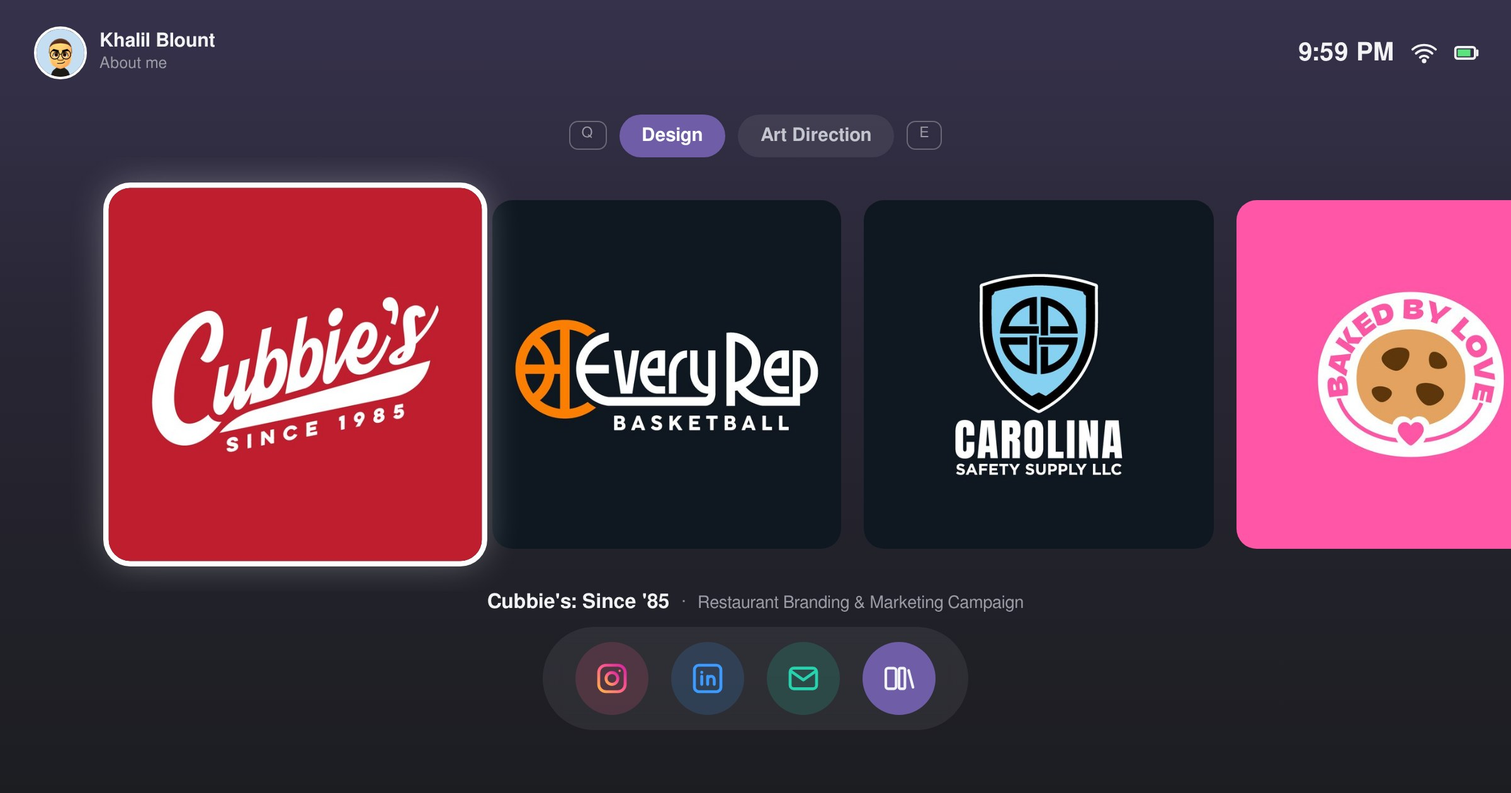
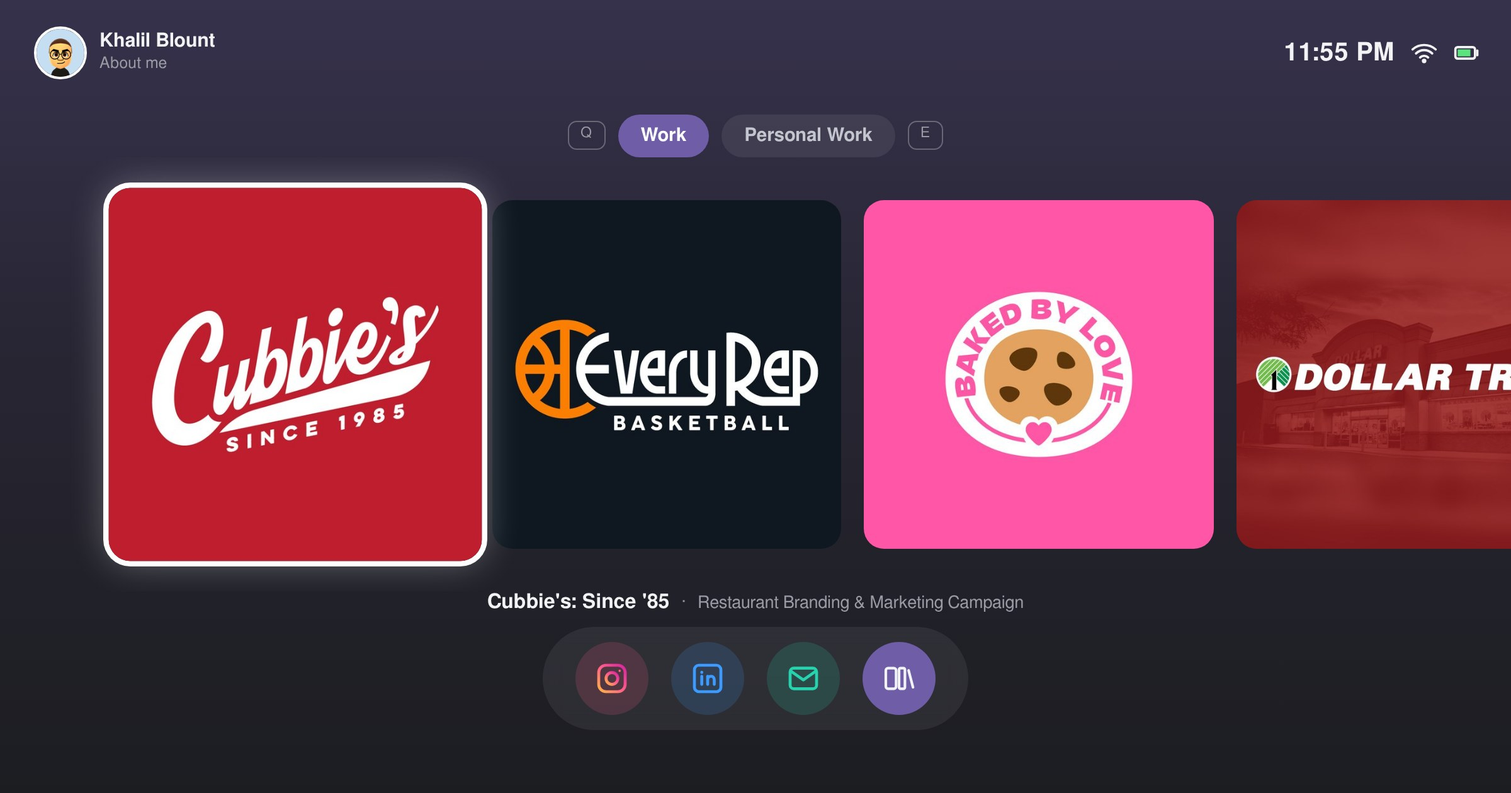
Add files via upload

Changed region(s): [[0.5625, 0.2476, 1.0, 0.7119], [0.375, 0.1548, 0.625, 0.1857], [0.8438, 0.0619, 0.875, 0.0929]]

diff --git a/index.html b/index.html
@@ -175,7 +175,7 @@ footer{padding:0 0 22px;display:flex;flex-direction:column;align-items:center;ga
 </header>
 
 <main>
-  <div class="tabs" role="tablist" aria-label="Portfolio sections"><span class="key">Q</span><button class="tabbtn on" role="tab" aria-selected="true" data-tab="brand">Design</button><button class="tabbtn" role="tab" aria-selected="false" data-tab="marketing">Art Direction</button><span class="key">E</span></div>
+  <div class="tabs" role="tablist" aria-label="Portfolio sections"><span class="key">Q</span><button class="tabbtn on" role="tab" aria-selected="true" data-tab="work">Work</button><button class="tabbtn" role="tab" aria-selected="false" data-tab="personal">Personal Work</button><span class="key">E</span></div>
   <div id="row" role="list" aria-label="Projects"></div>
   <p class="cap" id="cap"></p>
 </main>
@@ -245,15 +245,16 @@ footer{padding:0 0 22px;display:flex;flex-direction:column;align-items:center;ga
 <script>
 /* ===== EDIT YOUR CONTENT HERE (max 10 projects) ===== */
 const PROJECTS=[
- {title:"Cubbie's: Since '85",tab:"brand",desc:"",type:"Restaurant Branding & Marketing Campaign",role:"Art Director",deliverables:"Visual Identity, Digital Ads, Out-of-Home Ads",challenge:["Cubbie’s has long been an ECU and Greenville staple for Southern comfort food, but a recent wave of modern burger joints threatened its hometown dominance. Falling behind the curve due to an outdated 1980s visual identity and a passive marketing strategy, the restaurant needed a modern intervention. I stepped in to spearhead the rebrand.", "First, I overhauled their visual identity… cleaned up the typography and modernized their mascot into a timeless brand asset ready for merchandise, signage, and packaging. Next, I launched the “New Bear in Town” marketing campaign. By cleverly hijacking famous food catchphrases from pop culture’s most iconic bears, the campaign confidently reminds locals and students alike that when it comes to comfort food, Cubbie the Bear still owns the block."],tags:[],url:"#",img:"images/cubbies/cover.jpg",hover:"images/cubbies/hover.jpg",hoverPos:"50% 50%",slides:["images/cubbies/01-hero.jpg","images/cubbies/02-mascot.jpg","images/cubbies/03-logo-suite.jpg","images/cubbies/04-primary-logo.jpg","images/cubbies/05-apparel-mural.jpg","images/cubbies/06-billboard.jpg","images/cubbies/07-posters.jpg","images/cubbies/08-social-ads.jpg"],c1:"#bf1e2e",c2:"#7a0010"},
- {title:"Dollar Tree: Holiday Magic",tab:"marketing",desc:"",type:"Creative Advertising Campaign",team:"Khalil Blount & Ella Bartosik",deliverables:"Social Media, Out-of-Home, Video Spots",heading:"Overview",challenge:["Dollar Tree is known for being affordable, but during the holidays few people think of it as a place to shop for gifts, even though it’s full of them. Meanwhile, nearly half of Gen Z (47%) and millennial (43%) shoppers plan to buy gifts for themselves this season (<a href=\"https://www2.deloitte.com/us/en/insights/industry/retail-distribution/holiday-retail-sales-consumer-survey.html\" target=\"_blank\" rel=\"noopener\">Deloitte</a>).", "The idea: Blame it on the holiday Magic! Instead of lecturing about budgets, the campaign leans into sarcasm and relatability: if you’re already treating yourself, why not do it where you can grab everyone’s gifts too? Treating everyone, yourself included, for just a few dollars is the real holiday magic."],tags:[],url:"#",img:"images/dollartree/cover.jpg",hover:"images/dollartree/hover.jpg",hoverPos:"50% 50%",video:{src:"assets/dollar-tree-spot.mp4",poster:"images/dollartree/spot-poster.jpg",after:5},slides:["images/dollartree/01-cover.jpg", "images/dollartree/02-hero.jpg", "images/dollartree/03-subway.jpg", "images/dollartree/04-poster-wall.jpg", "images/dollartree/05-bus-shelter.jpg", "images/dollartree/06-social.jpg", "images/dollartree/07-apple-pay.jpg", "images/dollartree/08-elves.jpg"],c1:"#a51c20",c2:"#6d0f13"},
- {title:"AMC Theatres: We Miss You…",tab:"marketing",desc:"",type:"Brand Activation Campaign",team:"Khalil Blount & Ella Bartosik",deliverables:"Brand Activation, Out-of-Home, Social Media, Video Spot",heading:"Overview",challenge:["People have forgotten what the real cinema experience is. It’s not just the movie, it’s the shared laughter, gasps, and the way theaters amplify every emotion. Movies aren’t just watched. They’re felt.", "The activation: three products available ONLY IN THEATERS, the Spill-Proof Bucket Lid, Tear Catcher Goggles, and Laugh Leveler. Each is designed to enhance the movie experience and pair with the films that bring out your emotions, whether it’s a tearjerker, a comedy, or a thriller, so everyone can feel in full without holding back."],tags:[],url:"#",img:"images/amc/cover.jpg",hover:"images/amc/hover.jpg",hoverPos:"50% 50%",video:{src:"assets/amc-we-miss-you.mp4",poster:"images/amc/spot-poster.jpg",after:3},slides:["images/amc/01-we-miss-you.jpg", "images/amc/06-marquee-1.jpg", "images/amc/07-marquee-2.jpg", "images/amc/08-marquee-3.jpg", "images/amc/02-feel-in-full.jpg", "images/amc/03-bucket-lid.jpg", "images/amc/04-tear-catcher.jpg", "images/amc/05-laugh-leveler.jpg", "images/amc/09-social.jpg", "images/amc/10-team.jpg"],c1:"#c8102e",c2:"#5a0a14"},
- {title:"Every Rep Basketball",tab:"brand",desc:"",type:"Athletic Branding & Apparel System",role:"Brand Designer, Strategist",deliverables:"Logo Suite, Social Media, Merchandise",challenge:["Every Rep launched with an ambitious dual mandate: establish an elite athletic training service and build a premium merchandise line to act as \"on-body promotion\". To stand out in a market oversaturated with generic basketball clichés, the brand needed a visual identity that felt elite, established, and fully scalable. I stepped in to develop the “Geometry of the Game,” moving away from standard sports tropes to lean directly into the structural language of basketball.", "By crafting custom, fluid typography that mimics the channels of a basketball and building a responsive logo family, I created an adaptable asset system engineered for everything from large-scale court graphics to embroidered jersey patches. The result is a distinct, professional visual identity that seamlessly unifies the brand experience for athletes across all tiers, from youth development to the pros."],tags:[],url:"#",img:"images/everyrep/cover.jpg",hover:"images/everyrep/05-jersey.jpg",hoverPos:"50% 50%",slides:["images/everyrep/01-cover.jpg", "images/everyrep/02-badge-web.jpg", "images/everyrep/03-colorway.jpg", "images/everyrep/04-monogram.jpg", "images/everyrep/05-jersey.jpg", "images/everyrep/06-court.jpg"],c1:"#f77f00",c2:"#e8571f"},
- {title:"Carolina Safety Supply",tab:"brand",desc:"",type:"Corporate Identity & Print Collateral",role:"Brand Design, Production Artist",deliverables:"Visual Identity, Typography, Corporate Collateral & Uniforms",challenge:["Founded by a retired Chief of Police, Carolina Safety Supply needed to aggressively enter the law enforcement and emergency gear market as a trusted authority. The mission was to translate the founder's deeply personal industry roots into an authoritative corporate identity that projected institutional strength and protection. I anchored the entire rebrand around “A Symbol of Protection,” refining a Celtic knot inspired by the founder's personal tattoo into a sharp, geometric vector mark encased in a defensive shield.", "Steering away from overly aggressive industry colors, I established a clean \"Safety Blue\" and Black corporate palette engineered specifically to capture lucrative government and B2B contracts. Deployed consistently across corporate collateral, presentation folders, and physical team apparel, the robust new identity firmly positions the company as a premier partner for high-level safety equipment."],tags:[],url:"#",img:"images/carolina/cover.jpg",hover:"images/carolina/hover.jpg",hoverPos:"50% 50%",slides:["images/carolina/01-primary.jpg", "images/carolina/02-marks.jpg", "images/carolina/03-sketch.jpg", "images/carolina/04-evolution.jpg", "images/carolina/05-team.jpg", "images/carolina/06-collateral.jpg"],c1:"#87d0f2",c2:"#04507a"},
- {title:"Baked by Love",tab:"brand",desc:"",type:"Visual Identity & Packaging Design",role:"Brand/Packaging Designer",deliverables:"Visual Identity, Social Media, Packaging & Stickers",challenge:["Baked By Love needed to transition from a cozy, home-based kitchen operation into a highly scalable retail and e-commerce brand. The core challenge lay in projecting professional polish for competitive shelf presence without losing the inviting warmth of a \"homemade\" aesthetic.", "To solve this, I designed a “Retail-Ready System” focused on appetite-triggering visuals, blending a bold sans-serif with a warm, custom script for the word \"Love\". I anchored the visual identity with a circular badge format engineered to double as a cost-effective packaging sticker seal, paired with a vibrant \"Perfect Pink\" and \"Cookie Dough\" brown palette and a playful pattern library of bitten cookies and hearts. Rolled out seamlessly across custom boxes, sticker labels, and social templates, this polished identity beautifully bridges digital engagement with physical unboxing to position the bakery for massive storefront growth."],tags:[],url:"#",img:"images/bakedbylove/cover.jpg",hover:"images/bakedbylove/hover.jpg",hoverPos:"50% 50%",slides:["images/bakedbylove/01-cover.jpg", "images/bakedbylove/02-pattern.jpg", "images/bakedbylove/03-evolution.jpg", "images/bakedbylove/04-wordmark.jpg", "images/bakedbylove/05-colors.jpg", "images/bakedbylove/06-web.jpg", "images/bakedbylove/07-social-boxes.jpg"],c1:"#ff57a2",c2:"#7a2cbf"},
- {title:"Family Legacy Financial Solutions",tab:"brand",desc:"",type:"Social Media & Print Marketing Campaign",deliverables:"Social Media Ads, Print Collateral",heading:"Overview",challenge:["A lead-generation campaign for Family Legacy Financial Solutions, a wealth management firm, aimed at tech professionals with stock options. Four social ads, from illustrated to photographic, speak directly to the pain point of overpaying in taxes and drive to a free guide.", "The guide and a services brochure carry the same green, shield-led identity into print, so every touchpoint feels like one brand."],layout:"brick",ratios:[1.0, 0.9042, 1.0, 1.0, 0.6667, 0.6667],tags:[],url:"#",img:"images/familylegacy/cover.jpg",hover:"images/familylegacy/hover.jpg",hoverPos:"50% 50%",slides:["images/familylegacy/01-stock-options-taxes.jpg", "images/familylegacy/02-unlock-secrets.jpg", "images/familylegacy/03-master-stock-options.jpg", "images/familylegacy/04-maximize-minimize.jpg", "images/familylegacy/05-guide.jpg", "images/familylegacy/06-brochure.jpg"],c1:"#2b3a2f",c2:"#14201a"},
- {title:"Sport/Gameday",tab:"brand",desc:"",type:"Team Graphics • Player Posters",heading:"Overview",challenge:["Game day lives on screens and in arenas, and these graphics are built for both. This selection of team graphics and player posters was created for digital channels, sports media, and live gameday productions: signing announcements, matchup promos, senior banners, and athlete spotlights, all tuned to each team’s colors and energy. Every piece is designed to stop the scroll, put the athlete front and center, and make game night feel like an event."],layout:"brick",ratios:[0.6682, 1.2945, 1.6664, 1.489, 1.4819, 1.4819, 1.4876, 1.4876, 1.2308, 1.2495, 1.2483, 1.2315, 1.2315, 1.2315, 1.2315],tags:[],url:"#",img:"images/sport/cover.jpg",hover:"images/sport/hover.jpg",hoverPos:"50% 50%",slides:["images/sport/01-chargers-jv.jpg", "images/sport/02-caleb-wilson.jpg", "images/sport/03-softball-banner.jpg", "images/sport/04-myles-joy.jpg", "images/sport/05-cash-easley.jpg", "images/sport/06-braxton-pegram.jpg", "images/sport/07-bucks-senior.jpg", "images/sport/08-laura-laverde.jpg", "images/sport/09-fairplay-select.jpg", "images/sport/10-unc-committed.jpg", "images/sport/11-kayla-committed.jpg", "images/sport/12-firebirds-college-day.jpg", "images/sport/13-firebirds-health.jpg", "images/sport/14-firebirds-youth.jpg", "images/sport/15-firebirds-tournament.jpg"],c1:"#6f5bff",c2:"#2a1f8f"},
- {title:"Brand Book",tab:"brand",desc:"",type:"Bespoke Logo • Brand Identity",heading:"Overview",challenge:["A growing library of custom logos and brand marks, each built from scratch to give a business something worth remembering. Across home services, food and hospitality, sports and education, media, retail, and events, every identity starts with the client’s personality and audience, whether that calls for a hand-lettered script, a bold mascot, or a clean, confident wordmark. Each mark is built to hold up everywhere a brand lives, from signage and uniforms to packaging and screens. The goal never changes: clear, ownable branding that works as hard as the business behind it."],layout:"brick",ratios:[0.7333, 0.6411, 0.7367, 0.4878, 1.0, 0.3978, 0.9733, 1.0, 0.4189, 0.6922, 0.4633, 0.3956, 0.9933, 0.91, 0.4889, 1.4033, 1.28, 0.5722, 1.1611, 0.6933],tags:[],url:"#",img:"images/brandbook/cover.jpg",hover:"images/brandbook/hover.jpg",hoverPos:"50% 50%",slides:["images/brandbook/logo-01.jpg", "images/brandbook/logo-02.jpg", "images/brandbook/logo-03.jpg", "images/brandbook/logo-04.jpg", "images/brandbook/logo-05.jpg", "images/brandbook/logo-06.jpg", "images/brandbook/logo-07.jpg", "images/brandbook/logo-08.jpg", "images/brandbook/logo-09.jpg", "images/brandbook/logo-10.jpg", "images/brandbook/logo-11.jpg", "images/brandbook/logo-12.jpg", "images/brandbook/logo-13.jpg", "images/brandbook/logo-14.jpg", "images/brandbook/logo-15.jpg", "images/brandbook/logo-16.jpg", "images/brandbook/logo-17.jpg", "images/brandbook/logo-18.jpg", "images/brandbook/logo-19.jpg", "images/brandbook/logo-20.jpg"],c1:"#0b7a75",c2:"#0a3d4a"}
+ {title:"Cubbie's: Since '85",tab:"work",desc:"",type:"Restaurant Branding & Marketing Campaign",role:"Art Director",deliverables:"Visual Identity, Digital Ads, Out-of-Home Ads",challenge:["Cubbie’s has long been an ECU and Greenville staple for Southern comfort food, but a recent wave of modern burger joints threatened its hometown dominance. Falling behind the curve due to an outdated 1980s visual identity and a passive marketing strategy, the restaurant needed a modern intervention. I stepped in to spearhead the rebrand.", "First, I overhauled their visual identity… cleaned up the typography and modernized their mascot into a timeless brand asset ready for merchandise, signage, and packaging. Next, I launched the “New Bear in Town” marketing campaign. By cleverly hijacking famous food catchphrases from pop culture’s most iconic bears, the campaign confidently reminds locals and students alike that when it comes to comfort food, Cubbie the Bear still owns the block."],tags:[],url:"#",img:"images/cubbies/cover.jpg",hover:"images/cubbies/hover.jpg",hoverPos:"50% 50%",slides:["images/cubbies/01-hero.jpg","images/cubbies/02-mascot.jpg","images/cubbies/03-logo-suite.jpg","images/cubbies/04-primary-logo.jpg","images/cubbies/05-apparel-mural.jpg","images/cubbies/06-billboard.jpg","images/cubbies/07-posters.jpg","images/cubbies/08-social-ads.jpg"],c1:"#bf1e2e",c2:"#7a0010"},
+ {title:"Every Rep Basketball",tab:"work",desc:"",type:"Athletic Branding & Apparel System",role:"Brand Designer, Strategist",deliverables:"Logo Suite, Social Media, Merchandise",challenge:["Every Rep launched with an ambitious dual mandate: establish an elite athletic training service and build a premium merchandise line to act as \"on-body promotion\". To stand out in a market oversaturated with generic basketball clichés, the brand needed a visual identity that felt elite, established, and fully scalable. I stepped in to develop the “Geometry of the Game,” moving away from standard sports tropes to lean directly into the structural language of basketball.", "By crafting custom, fluid typography that mimics the channels of a basketball and building a responsive logo family, I created an adaptable asset system engineered for everything from large-scale court graphics to embroidered jersey patches. The result is a distinct, professional visual identity that seamlessly unifies the brand experience for athletes across all tiers, from youth development to the pros."],tags:[],url:"#",img:"images/everyrep/cover.jpg",hover:"images/everyrep/05-jersey.jpg",hoverPos:"50% 50%",slides:["images/everyrep/01-cover.jpg", "images/everyrep/02-badge-web.jpg", "images/everyrep/03-colorway.jpg", "images/everyrep/04-monogram.jpg", "images/everyrep/05-jersey.jpg", "images/everyrep/06-court.jpg"],c1:"#f77f00",c2:"#e8571f"},
+ {title:"Baked by Love",tab:"work",desc:"",type:"Visual Identity & Packaging Design",role:"Brand/Packaging Designer",deliverables:"Visual Identity, Social Media, Packaging & Stickers",challenge:["Baked By Love needed to transition from a cozy, home-based kitchen operation into a highly scalable retail and e-commerce brand. The core challenge lay in projecting professional polish for competitive shelf presence without losing the inviting warmth of a \"homemade\" aesthetic.", "To solve this, I designed a “Retail-Ready System” focused on appetite-triggering visuals, blending a bold sans-serif with a warm, custom script for the word \"Love\". I anchored the visual identity with a circular badge format engineered to double as a cost-effective packaging sticker seal, paired with a vibrant \"Perfect Pink\" and \"Cookie Dough\" brown palette and a playful pattern library of bitten cookies and hearts. Rolled out seamlessly across custom boxes, sticker labels, and social templates, this polished identity beautifully bridges digital engagement with physical unboxing to position the bakery for massive storefront growth."],tags:[],url:"#",img:"images/bakedbylove/cover.jpg",hover:"images/bakedbylove/hover.jpg",hoverPos:"50% 50%",slides:["images/bakedbylove/01-cover.jpg", "images/bakedbylove/02-pattern.jpg", "images/bakedbylove/03-evolution.jpg", "images/bakedbylove/04-wordmark.jpg", "images/bakedbylove/05-colors.jpg", "images/bakedbylove/06-web.jpg", "images/bakedbylove/07-social-boxes.jpg"],c1:"#ff57a2",c2:"#7a2cbf"},
+ {title:"Dollar Tree: Holiday Magic",tab:"work",desc:"",type:"Creative Advertising Campaign",team:"Khalil Blount & Ella Bartosik",deliverables:"Social Media, Out-of-Home, Video Spots",heading:"Overview",challenge:["Dollar Tree is known for being affordable, but during the holidays few people think of it as a place to shop for gifts, even though it’s full of them. Meanwhile, nearly half of Gen Z (47%) and millennial (43%) shoppers plan to buy gifts for themselves this season (<a href=\"https://www2.deloitte.com/us/en/insights/industry/retail-distribution/holiday-retail-sales-consumer-survey.html\" target=\"_blank\" rel=\"noopener\">Deloitte</a>).", "The idea: Blame it on the holiday Magic! Instead of lecturing about budgets, the campaign leans into sarcasm and relatability: if you’re already treating yourself, why not do it where you can grab everyone’s gifts too? Treating everyone, yourself included, for just a few dollars is the real holiday magic."],tags:[],url:"#",img:"images/dollartree/cover.jpg",hover:"images/dollartree/hover.jpg",hoverPos:"50% 50%",video:{src:"assets/dollar-tree-spot.mp4",poster:"images/dollartree/spot-poster.jpg",after:5},slides:["images/dollartree/01-cover.jpg", "images/dollartree/02-hero.jpg", "images/dollartree/03-subway.jpg", "images/dollartree/04-poster-wall.jpg", "images/dollartree/05-bus-shelter.jpg", "images/dollartree/06-social.jpg", "images/dollartree/07-apple-pay.jpg", "images/dollartree/08-elves.jpg"],c1:"#a51c20",c2:"#6d0f13"},
+ {title:"Carolina Safety Supply",tab:"work",desc:"",type:"Corporate Identity & Print Collateral",role:"Brand Design, Production Artist",deliverables:"Visual Identity, Typography, Corporate Collateral & Uniforms",challenge:["Founded by a retired Chief of Police, Carolina Safety Supply needed to aggressively enter the law enforcement and emergency gear market as a trusted authority. The mission was to translate the founder's deeply personal industry roots into an authoritative corporate identity that projected institutional strength and protection. I anchored the entire rebrand around “A Symbol of Protection,” refining a Celtic knot inspired by the founder's personal tattoo into a sharp, geometric vector mark encased in a defensive shield.", "Steering away from overly aggressive industry colors, I established a clean \"Safety Blue\" and Black corporate palette engineered specifically to capture lucrative government and B2B contracts. Deployed consistently across corporate collateral, presentation folders, and physical team apparel, the robust new identity firmly positions the company as a premier partner for high-level safety equipment."],tags:[],url:"#",img:"images/carolina/cover.jpg",hover:"images/carolina/hover.jpg",hoverPos:"50% 50%",slides:["images/carolina/01-primary.jpg", "images/carolina/02-marks.jpg", "images/carolina/03-sketch.jpg", "images/carolina/04-evolution.jpg", "images/carolina/05-team.jpg", "images/carolina/06-collateral.jpg"],c1:"#87d0f2",c2:"#04507a"},
+ {title:"Family Legacy Financial Solutions",tab:"work",desc:"",type:"Social Media & Print Marketing Campaign",deliverables:"Social Media Ads, Print Collateral",heading:"Overview",challenge:["A lead-generation campaign for Family Legacy Financial Solutions, a wealth management firm, aimed at tech professionals with stock options. Four social ads, from illustrated to photographic, speak directly to the pain point of overpaying in taxes and drive to a free guide.", "The guide and a services brochure carry the same green, shield-led identity into print, so every touchpoint feels like one brand."],layout:"brick",ratios:[1.0, 0.9042, 1.0, 1.0, 0.6667, 0.6667],tags:[],url:"#",img:"images/familylegacy/cover.jpg",hover:"images/familylegacy/hover.jpg",hoverPos:"50% 50%",slides:["images/familylegacy/01-stock-options-taxes.jpg", "images/familylegacy/02-unlock-secrets.jpg", "images/familylegacy/03-master-stock-options.jpg", "images/familylegacy/04-maximize-minimize.jpg", "images/familylegacy/05-guide.jpg", "images/familylegacy/06-brochure.jpg"],c1:"#2b3a2f",c2:"#14201a"},
+ {title:"AMC Theatres: We Miss You…",tab:"work",desc:"",type:"Brand Activation Campaign",team:"Khalil Blount & Ella Bartosik",deliverables:"Brand Activation, Out-of-Home, Social Media, Video Spot",heading:"Overview",challenge:["People have forgotten what the real cinema experience is. It’s not just the movie, it’s the shared laughter, gasps, and the way theaters amplify every emotion. Movies aren’t just watched. They’re felt.", "The activation: three products available ONLY IN THEATERS, the Spill-Proof Bucket Lid, Tear Catcher Goggles, and Laugh Leveler. Each is designed to enhance the movie experience and pair with the films that bring out your emotions, whether it’s a tearjerker, a comedy, or a thriller, so everyone can feel in full without holding back."],tags:[],url:"#",img:"images/amc/cover.jpg",hover:"images/amc/hover.jpg",hoverPos:"50% 50%",video:{src:"assets/amc-we-miss-you.mp4",poster:"images/amc/spot-poster.jpg",after:3},slides:["images/amc/01-we-miss-you.jpg", "images/amc/06-marquee-1.jpg", "images/amc/07-marquee-2.jpg", "images/amc/08-marquee-3.jpg", "images/amc/02-feel-in-full.jpg", "images/amc/03-bucket-lid.jpg", "images/amc/04-tear-catcher.jpg", "images/amc/05-laugh-leveler.jpg", "images/amc/09-social.jpg", "images/amc/10-team.jpg"],c1:"#c8102e",c2:"#5a0a14"},
+ {title:"Digital Illustration",tab:"personal",desc:"",type:"Character Art • Poster Illustration",role:"Illustrator",deliverables:"Poster Art, Apparel Graphics, Character Illustration, Sketchbook Studies",heading:"Overview",challenge:["A selection of original illustration work spanning comic-style character art, apparel graphics, event posters, portraits and sketchbook studies. Hand-drawn linework and digital color come together in bold, high-energy pieces that put character and personality first.", "The range runs from a Greenville Comic Con poster and streetwear-inspired graphics to a stylized portrait and a dog-friendly fundraiser flyer, plus inked and pencil studies. It’s the drawing foundation behind everything I design: strong shapes, clear storytelling, and a style that adapts to the brand or the moment."],layout:"brick",ratios:[1.415, 1.0, 1.0, 1.3331, 1.0, 1.2012, 1.34, 1.0725, 1.0631],tags:[],url:"#",img:"images/illustration/cover.jpg",hover:"images/illustration/hover.jpg",hoverPos:"50% 50%",slides:["images/illustration/01-comic-con.jpg", "images/illustration/02-paws-and-pints.jpg", "images/illustration/03-dirty-fashion.jpg", "images/illustration/04-ufo.jpg", "images/illustration/05-tar-heel-tee.jpg", "images/illustration/06-portrait.jpg", "images/illustration/07-the-thing.jpg", "images/illustration/08-sketch-1.jpg", "images/illustration/09-sketch-2.jpg"],c1:"#c8102e",c2:"#1f3a6b"},
+ {title:"Sport/Gameday",tab:"personal",desc:"",type:"Team Graphics • Player Posters",heading:"Overview",challenge:["Game day lives on screens and in arenas, and these graphics are built for both. This selection of team graphics and player posters was created for digital channels, sports media, and live gameday productions: signing announcements, matchup promos, senior banners, and athlete spotlights, all tuned to each team’s colors and energy. Every piece is designed to stop the scroll, put the athlete front and center, and make game night feel like an event."],layout:"brick",ratios:[0.6682, 1.2945, 1.6664, 1.489, 1.4819, 1.4819, 1.4876, 1.4876, 1.2308, 1.2495, 1.2483, 1.2315, 1.2315, 1.2315, 1.2315],tags:[],url:"#",img:"images/sport/cover.jpg",hover:"images/sport/hover.jpg",hoverPos:"50% 50%",slides:["images/sport/01-chargers-jv.jpg", "images/sport/02-caleb-wilson.jpg", "images/sport/03-softball-banner.jpg", "images/sport/04-myles-joy.jpg", "images/sport/05-cash-easley.jpg", "images/sport/06-braxton-pegram.jpg", "images/sport/07-bucks-senior.jpg", "images/sport/08-laura-laverde.jpg", "images/sport/09-fairplay-select.jpg", "images/sport/10-unc-committed.jpg", "images/sport/11-kayla-committed.jpg", "images/sport/12-firebirds-college-day.jpg", "images/sport/13-firebirds-health.jpg", "images/sport/14-firebirds-youth.jpg", "images/sport/15-firebirds-tournament.jpg"],c1:"#6f5bff",c2:"#2a1f8f"},
+ {title:"Brand Book",tab:"personal",desc:"",type:"Bespoke Logo • Brand Identity",heading:"Overview",challenge:["A growing library of custom logos and brand marks, each built from scratch to give a business something worth remembering. Across home services, food and hospitality, sports and education, media, retail, and events, every identity starts with the client’s personality and audience, whether that calls for a hand-lettered script, a bold mascot, or a clean, confident wordmark. Each mark is built to hold up everywhere a brand lives, from signage and uniforms to packaging and screens. The goal never changes: clear, ownable branding that works as hard as the business behind it."],layout:"brick",ratios:[0.7333, 0.6411, 0.7367, 0.4878, 1.0, 0.3978, 0.9733, 1.0, 0.4189, 0.6922, 0.4633, 0.3956, 0.9933, 0.91, 0.4889, 1.4033, 1.28, 0.5722, 1.1611, 0.6933],tags:[],url:"#",img:"images/brandbook/cover.jpg",hover:"images/brandbook/hover.jpg",hoverPos:"50% 50%",slides:["images/brandbook/logo-01.jpg", "images/brandbook/logo-02.jpg", "images/brandbook/logo-03.jpg", "images/brandbook/logo-04.jpg", "images/brandbook/logo-05.jpg", "images/brandbook/logo-06.jpg", "images/brandbook/logo-07.jpg", "images/brandbook/logo-08.jpg", "images/brandbook/logo-09.jpg", "images/brandbook/logo-10.jpg", "images/brandbook/logo-11.jpg", "images/brandbook/logo-12.jpg", "images/brandbook/logo-13.jpg", "images/brandbook/logo-14.jpg", "images/brandbook/logo-15.jpg", "images/brandbook/logo-16.jpg", "images/brandbook/logo-17.jpg", "images/brandbook/logo-18.jpg", "images/brandbook/logo-19.jpg", "images/brandbook/logo-20.jpg"],c1:"#0b7a75",c2:"#0a3d4a"}
 ];
 const ABOUT_PHOTOS=["images/about/photo-01.jpg", "images/about/photo-02.jpg", "images/about/photo-03.jpg", "images/about/photo-04.jpg", "images/about/photo-05.jpg", "images/about/photo-06.jpg", "images/about/photo-07.jpg", "images/about/photo-08.jpg", "images/about/photo-09.jpg", "images/about/photo-10.jpg", "images/about/photo-11.jpg", "images/about/photo-12.jpg", "images/about/photo-13.jpg", "images/about/photo-14.jpg"];
 const GAMES=[
@@ -267,7 +268,7 @@ const $=s=>document.querySelector(s),row=$("#row"),cap=$("#cap");
 const bg=o=>o.img?`background-image:url('${o.img}')`:`background-image:linear-gradient(135deg,${o.c1},${o.c2})`;
 let opener=null;
 
-let curTab="brand";
+let curTab="work";
 const setCap=p=>{cap.textContent=p.title;if(p.type){const s=document.createElement("span");s.className="capType";s.textContent=p.type;cap.appendChild(s)}};
 function renderTab(tab){
   curTab=tab;row.innerHTML="";
@@ -287,7 +288,7 @@ function renderTab(tab){
   if(list[0])setCap(list[0]);else cap.textContent="";
 }
 document.querySelectorAll(".tabbtn").forEach(b=>b.onclick=()=>renderTab(b.dataset.tab));
-renderTab("brand");
+renderTab("work");
 
 row.addEventListener("wheel",e=>{if(Math.abs(e.deltaY)>Math.abs(e.deltaX)){row.scrollLeft+=e.deltaY;e.preventDefault()}},{passive:false});
 
@@ -337,7 +338,7 @@ document.addEventListener("keydown",e=>{
   if($("#contactLayer").classList.contains("on")){if(e.key==="Escape"||e.key==="Backspace"||e.key==="Delete"){closeContact();e.preventDefault()}return}
   if(e.key==="Escape"||(e.key==="Backspace"||e.key==="Delete")&&document.querySelector(".layer.on")){closeLayers();return}
   if(document.querySelector(".layer.on"))return;
-  if(!e.ctrlKey&&!e.metaKey&&!e.altKey&&/^[qe\[\]]$/i.test(e.key)){const order=["brand","marketing"],i=order.indexOf(curTab),d=/^[q\[]$/i.test(e.key)?-1:1;renderTab(order[Math.min(order.length-1,Math.max(0,i+d))]);e.preventDefault();return}
+  if(!e.ctrlKey&&!e.metaKey&&!e.altKey&&/^[qe\[\]]$/i.test(e.key)){const order=["work","personal"],i=order.indexOf(curTab),d=/^[q\[]$/i.test(e.key)?-1:1;renderTab(order[Math.min(order.length-1,Math.max(0,i+d))]);e.preventDefault();return}
   const pills=[...document.querySelectorAll(".tabbtn")],tiles=[...row.querySelectorAll("button.tile")],dock=[...document.querySelectorAll(".dk")],a=document.activeElement;
   const inP=pills.includes(a),inRow=tiles.includes(a),inDock=dock.includes(a);
   if(e.key==="ArrowRight"||e.key==="ArrowLeft"){
